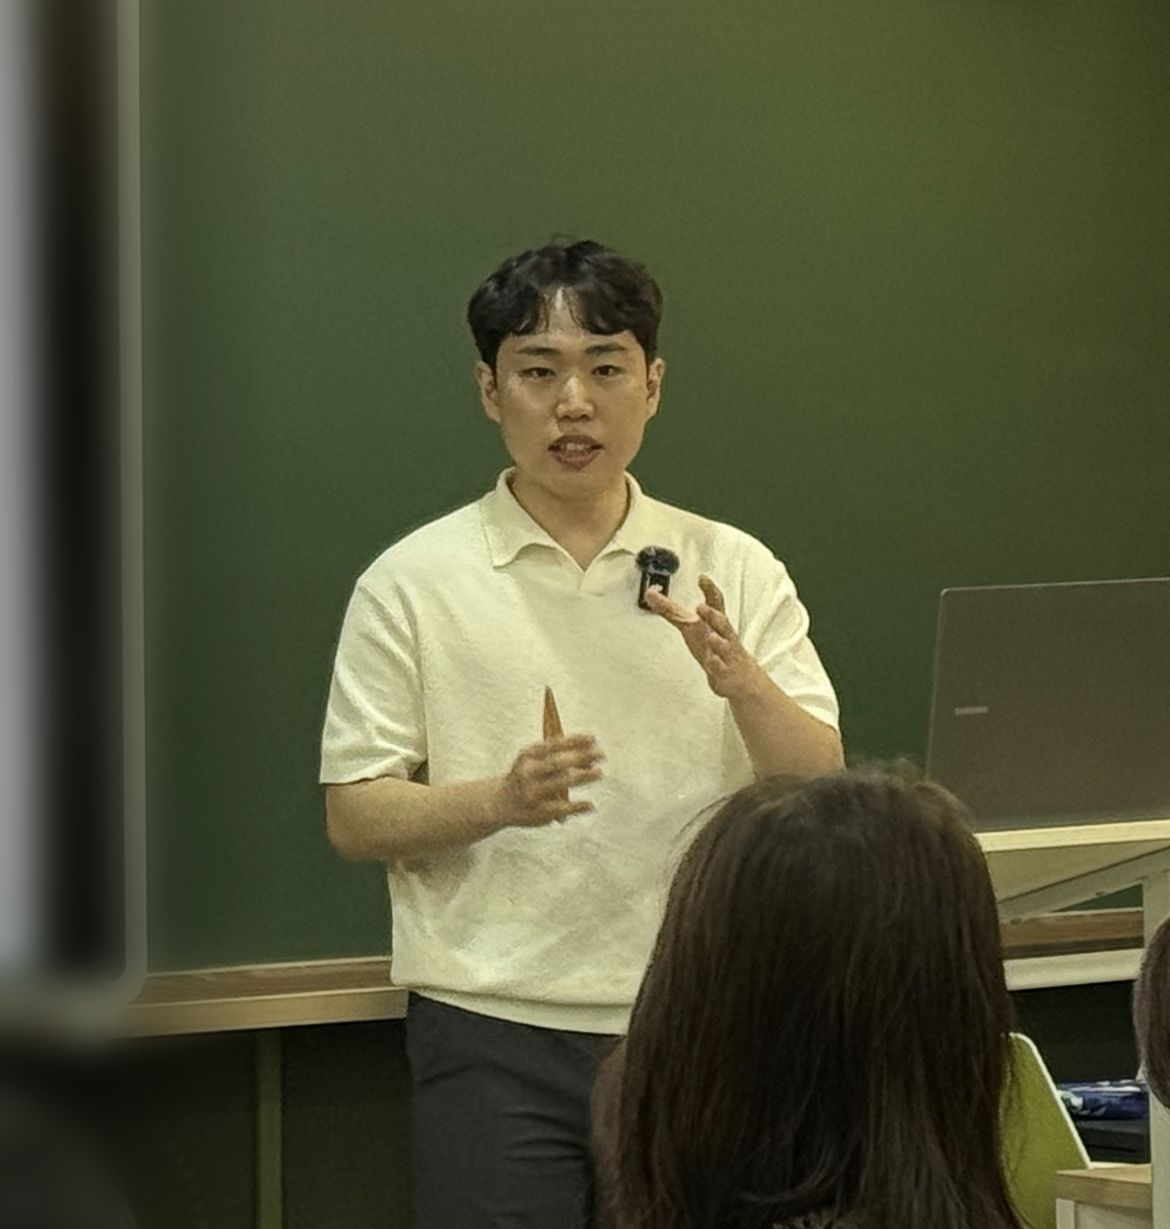
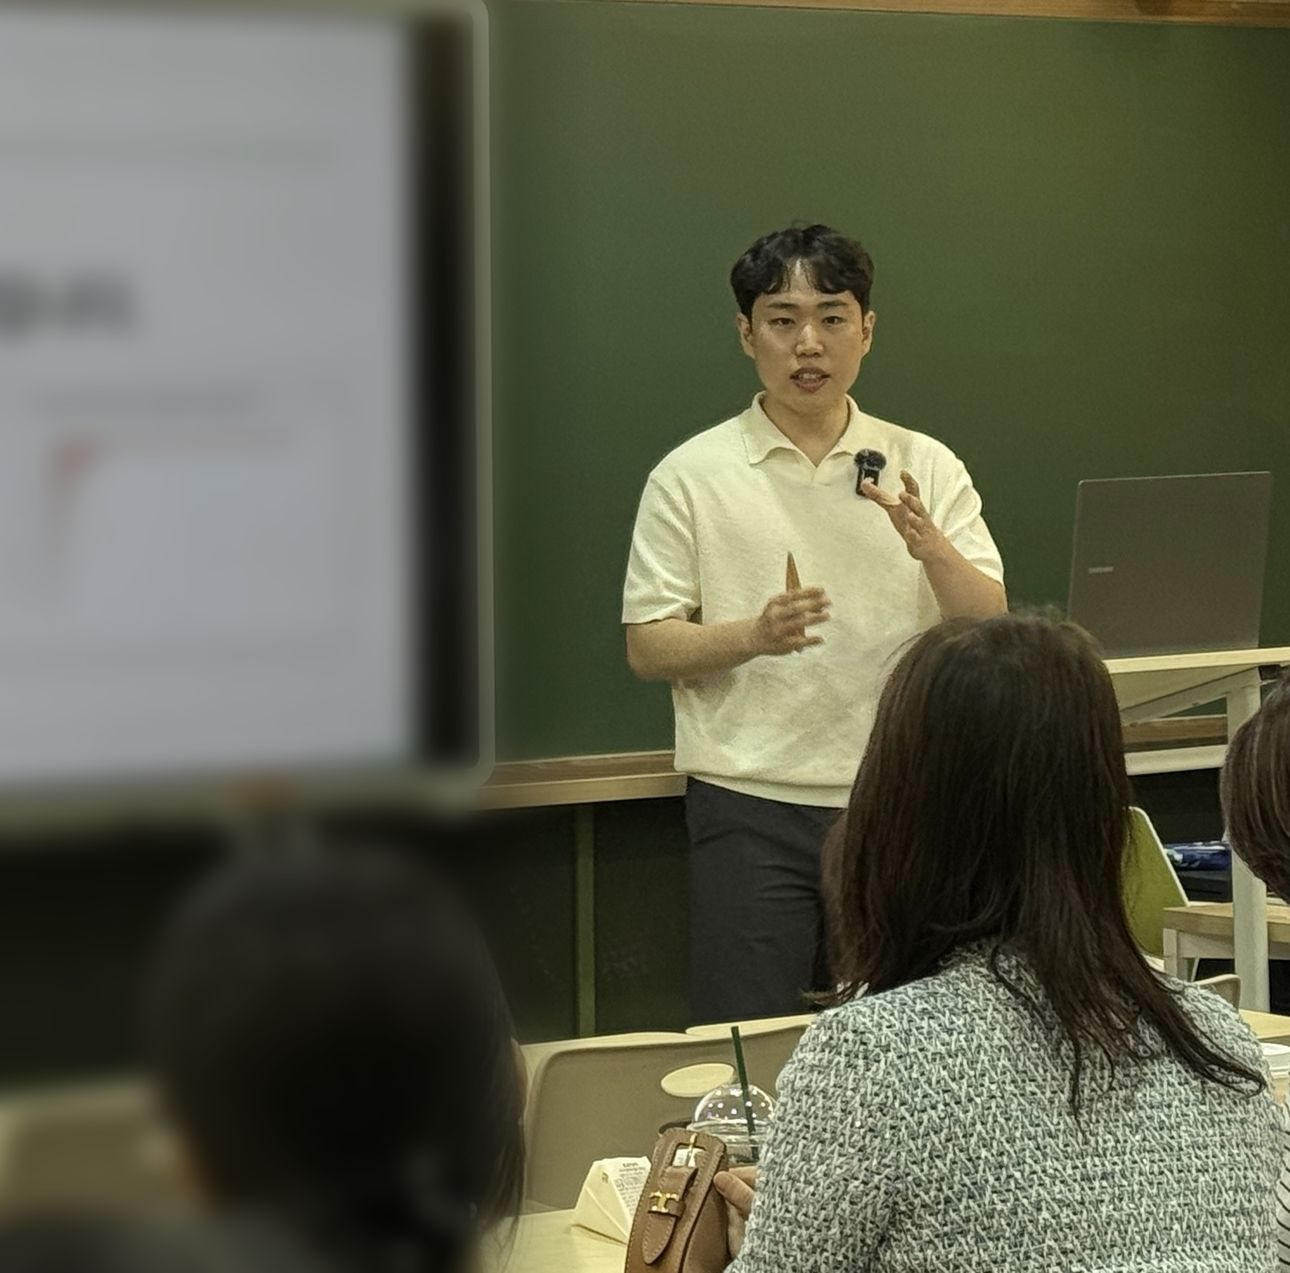
songdo: 휴대폰 히어로 사진을 발표 장면(화면 일부·준혁님·청중)으로 넓게 자름

diff --git a/src/components/songdo/SongdoHero.tsx b/src/components/songdo/SongdoHero.tsx
@@ -6,7 +6,7 @@ const rows = [
 
 /**
  * 히어로 사진 = 부산 1차 설명회(2026.05.08) 준혁님 발표 장면. 슬라이드 쪽은 글씨가 제목 뒤로 읽히지 않게 흐리게 처리한 사본.
- * 가로 화면(PC·태블릿 가로) = 사진을 배경 전체에, 준혁님은 오른쪽 빈자리 / 세로 화면(휴대폰·태블릿 세로) = 위쪽에 준혁님 사진, 아래에 글
+ * 가로 화면(PC·태블릿 가로) = 사진을 배경 전체에, 준혁님은 오른쪽 빈자리 / 세로 화면(휴대폰·태블릿 세로) = 위쪽에 발표 장면(흐린 화면 일부·준혁님·청중 뒷모습), 아래에 글
  */
 export default function SongdoHero() {
   return (
